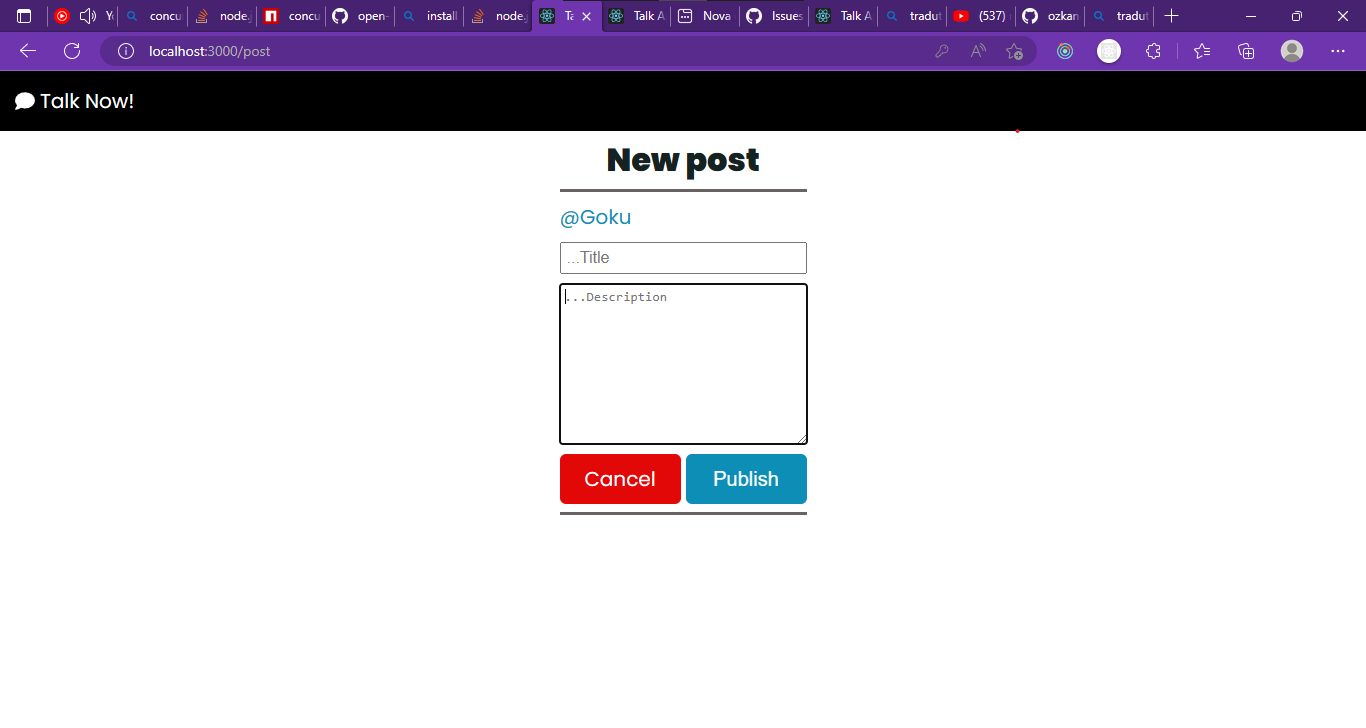
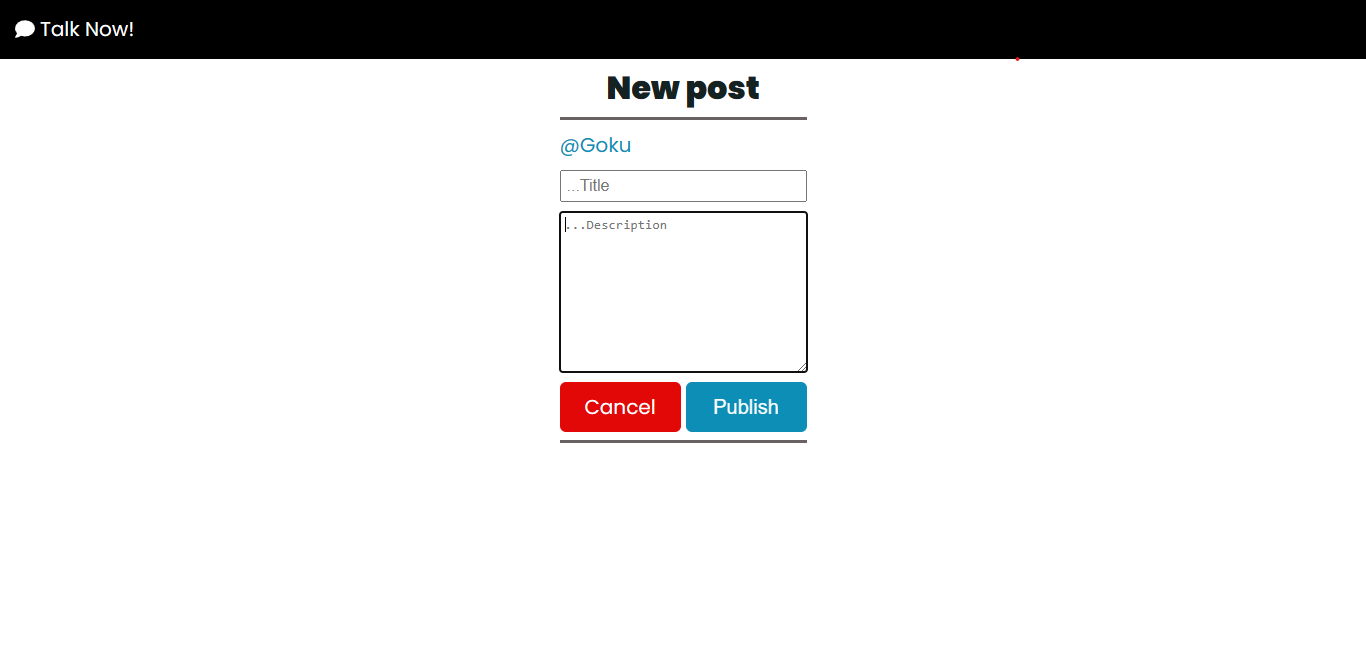
UPDATE: All the images have been changed

Changed region(s): [[0.0, 0.0, 1.0, 0.4268], [0.3997, 0.5793, 0.6149, 0.7317]]

diff --git a/README.md b/README.md
@@ -1,10 +1,10 @@
 # Social Media App
 
 <div style="display: flex; justify-content: center;" >
-    <img src="images\home.png" width="80%" height="auto">
-    <img src="images\create_user.png" width="80%" height="auto">
-    <img src="images\user_page1.png" width="80%" height="auto">
-    <img src="images\user_page2.png" width="80%" height="auto">
+    <img src="images\home.png" width="100%" height="auto">
+    <img src="images\create_post.png" width="100%" height="auto">
+    <img src="images\user_page1.png" width="100%" height="auto">
+    <img src="images\user_page2.png" width="100%" height="auto">
 </div>
 # DESCRIPTION
 "TalkNow" is an open source social network and a personal project, with the aim of creating a united environment conducive to interesting conversations.
